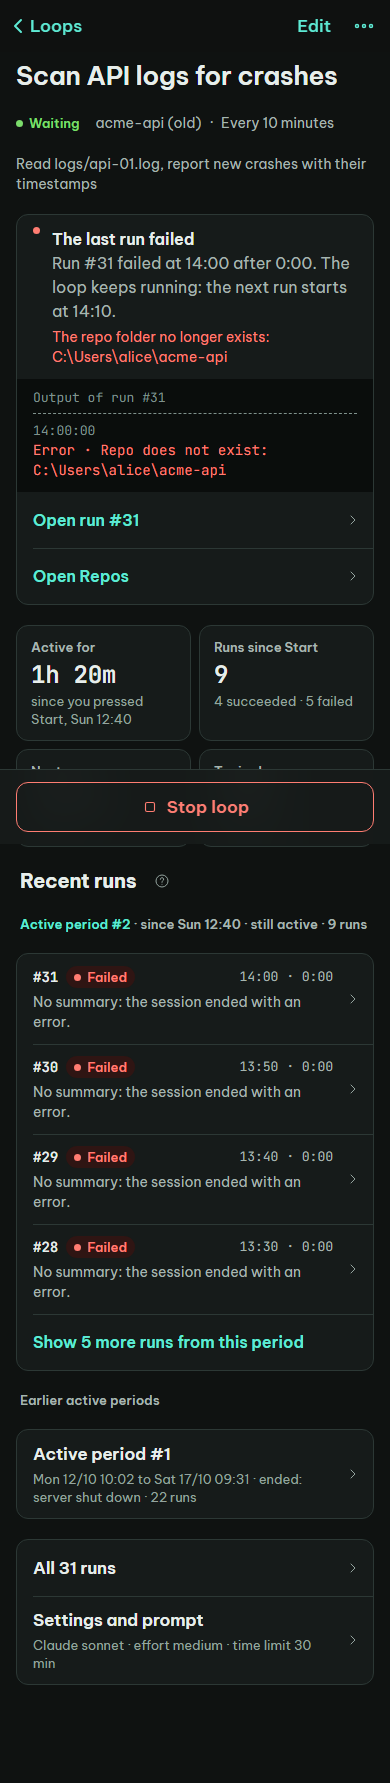
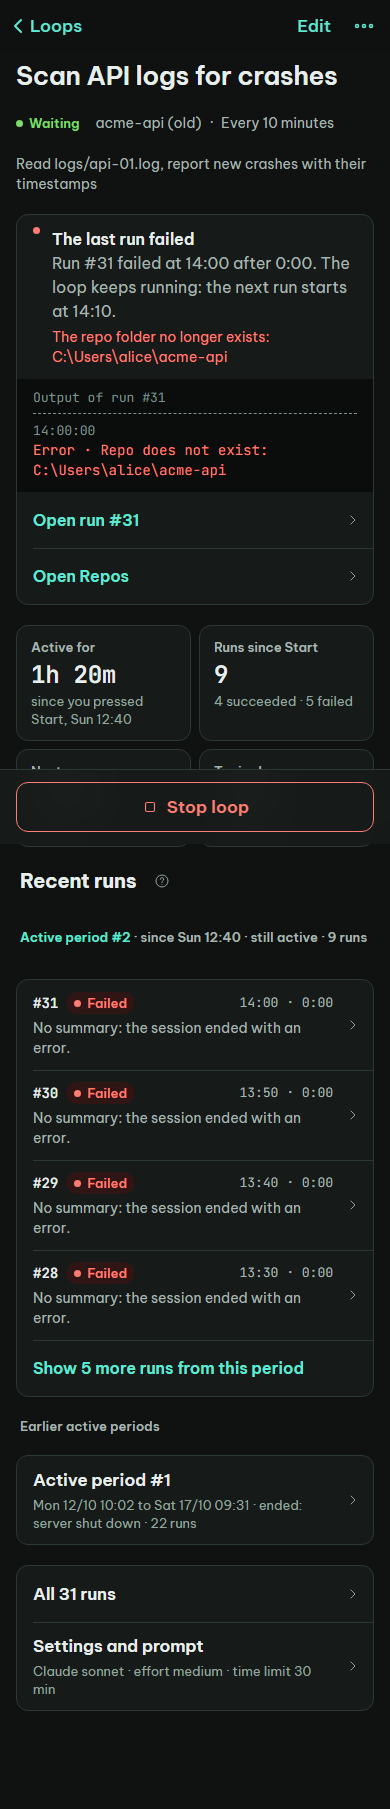
wip: touch-sized group caption link on the phone (U24)

diff --git a/design/ds/components.css b/design/ds/components.css
@@ -679,9 +679,10 @@ button.select { display: block; overflow: hidden; text-overflow: ellipsis; white
 @media (max-width: 639.98px) {
   .seg { display: grid; padding: var(--space-0h); }
   /* Every target on the phone is at least --size-touch (SYSTEM.md, iOS): a segment and a stepper button take the whole
-     44px, not 44px less the frame; a chip is never narrower than it is tall; a value in a row cell is 44px tall, and the
-     row's padding gives back what it adds. */
+     44px, not 44px less the frame; the link of a group caption is 44px tall; a chip is never narrower than it is tall; a
+     value in a row cell is 44px tall, and the row's padding gives back what it adds. */
   .seg button { height: var(--size-touch); }
+  .group-cap .link { min-height: var(--size-touch); }
   .stepper button { height: var(--size-touch); }
   .chip { height: var(--size-control); min-width: var(--size-touch); justify-content: center; }
   .fcell.is-row { min-height: var(--size-row); padding-top: var(--space-1h); padding-bottom: var(--space-1h); }

diff --git a/design/APPROVED.md b/design/APPROVED.md
@@ -223,3 +223,21 @@ castraferrum#165.
   `loop-archived`, `loop-stop-confirm`, `loop-stopping`, `loop-disconnected`, `loop-help`, `loop-menu`,
   `phone-loop-running`, `phone-loop-last-failed`); 634 to 3993 pixels each, the title's colour. Every other shot is
   unchanged.
+
+## Agent corrections under the owner's rule of 2026-10-23 - phone touch targets (U24), 2026-10-23
+
+Made by the agent of task U24 (castraferrum#92) under the same rule (a gap in the system is closed inside the rules of
+`ds/SYSTEM.md`, and this file records it).
+
+- **Every target on the phone is at least `--size-touch`** (system gap): `ds/SYSTEM.md` ("iOS") already asked for it, and
+  the phone sets `--size-control` to 44px, but some parts a finger taps were smaller than their 44px frame. The UC-34 walk
+  (`tests/e2e/phone.spec.ts`) measured them: a `.seg` button 38px tall (the frame's padding and border), a `.stepper`
+  button 42px (the border), the period link of a `.group-cap` 18px (U21's caption link), a `.chip` with a short label ("C:") 39px wide, and the value of a `.fcell.is-row` 32px tall.
+  [`ds/components.css`](ds/components.css), phone only: `.seg button` and `.stepper button` are `--size-touch` tall (their
+  frame grows by 6px and 2px), `.group-cap .link` is `--size-touch` tall, `.chip` has `min-width: var(--size-touch)`, and `.fcell.is-row` values are
+  `--size-touch` tall while the row keeps `--size-row` (its padding becomes `--space-1h`). Written in `ds/SYSTEM.md`,
+  "Fields" (Phone) and "Inset list". Re-shot with `npm run design:shots -- --design design/ds`, light and dark: `phone-form-new`,
+  `phone-form-errors`, `phone-form-sched-daily`, `phone-form-sched-weekly`, `phone-frame-disconnected`,
+  `phone-frame-loading`, `phone-loops-overview`, `phone-vi-loops-overview`, `phone-loops-repo-filter`,
+  `phone-loops-stop-confirm`, `phone-loop-running`, `phone-loop-last-failed`, `phone-settings` and `phone-vi-settings`
+  (28 shots: 6 to 26px taller where a segmented control, a stepper, a row or a caption link grew); no desktop shot changed.

diff --git a/design/ds/SYSTEM.md b/design/ds/SYSTEM.md
@@ -294,7 +294,8 @@ Screens put kit components together in `web/features/`. Never add a class that i
   (`.is-plain`), `.cell-row`, `.cell-meta` (`.is-one-line`, `.is-data`), `.cell-sum`, `.cell-value` (`.is-data`), `.chev`.
 - **Use it** for every list (runs, repos, active periods, folders, settings rows) on every screen size, and for the
   Loops list on the phone. A `.cell.is-link` opens a page and shows a `.chev`. A `.group-cap` that heads the runs of one
-  active period starts with a `.link` to that period's page (the current period on the loop page), at the caption's size.
+  active period starts with a `.link` to that period's page (the current period on the loop page), at the caption's size. On
+  the phone that link is `--size-touch` tall (task U24).
 - **Data text.** A path, an address or a version in a cell is `.cell-meta.is-data` or `.cell-value.is-data`
   (`--font-data`). `.cell-row` wraps its parts onto the next line when they do not fit. A `.cell-meta` made of
   spans (a loop row: repo, short schedule, next run) wraps between its spans, never inside one; `.is-one-line` cuts
